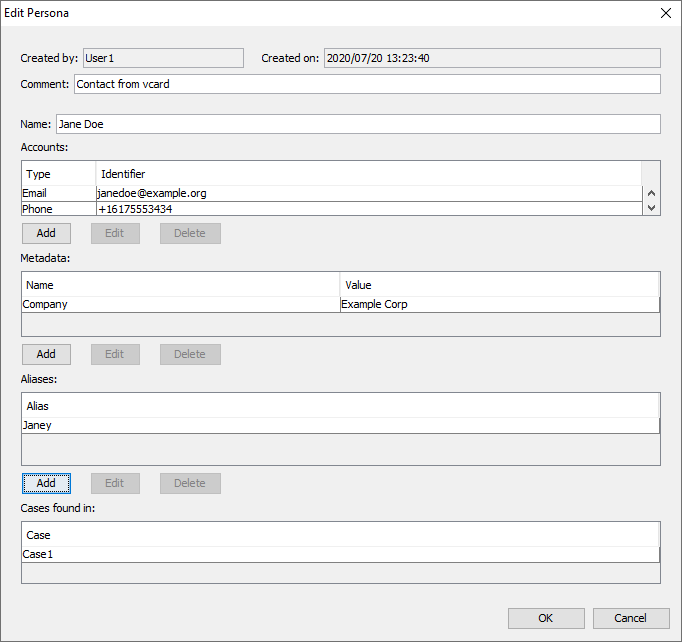
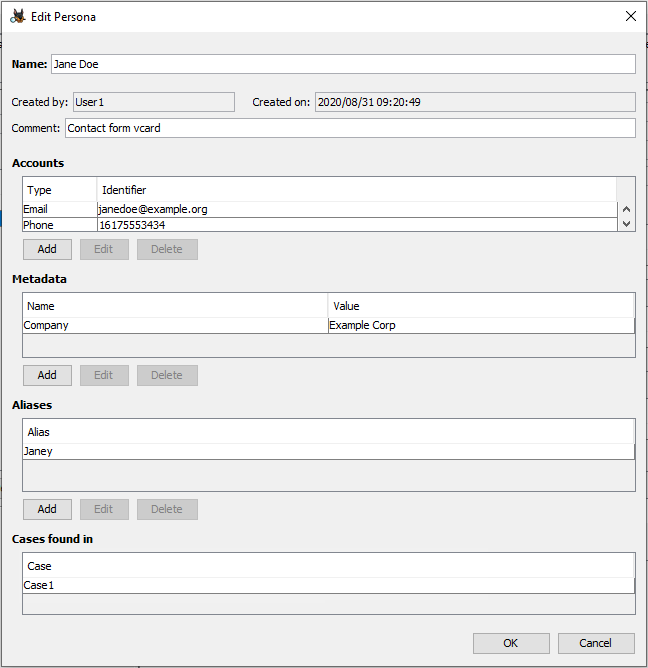
Rearrange fields on Personas panel and make it resizable. Update docs.

Changed region(s): [[0.0, 0.0, 1.0, 1.0], [0.4938, 0.4361, 0.6173, 0.4984]]

diff --git a/Core/src/org/sleuthkit/autopsy/centralrepository/persona/PersonaDetailsDialog.java b/Core/src/org/sleuthkit/autopsy/centralrepository/persona/PersonaDetailsDialog.java
@@ -87,10 +87,10 @@ public class PersonaDetailsDialog extends JDialog {
 
         cancelBtn = new javax.swing.JButton();
         okBtn = new javax.swing.JButton();
+        jScrollPane1 = new javax.swing.JScrollPane();
         pdp = new org.sleuthkit.autopsy.centralrepository.persona.PersonaDetailsPanel();
 
         setDefaultCloseOperation(javax.swing.WindowConstants.DISPOSE_ON_CLOSE);
-        setResizable(false);
 
         org.openide.awt.Mnemonics.setLocalizedText(cancelBtn, org.openide.util.NbBundle.getMessage(PersonaDetailsDialog.class, "PersonaDetailsDialog.cancelBtn.text")); // NOI18N
         cancelBtn.setMaximumSize(new java.awt.Dimension(79, 23));
@@ -109,20 +109,20 @@ public class PersonaDetailsDialog extends JDialog {
             }
         });
 
+        jScrollPane1.setBorder(null);
+        jScrollPane1.setViewportView(pdp);
+
         javax.swing.GroupLayout layout = new javax.swing.GroupLayout(getContentPane());
         getContentPane().setLayout(layout);
         layout.setHorizontalGroup(
             layout.createParallelGroup(javax.swing.GroupLayout.Alignment.LEADING)
-            .addGroup(javax.swing.GroupLayout.Alignment.TRAILING, layout.createSequentialGroup()
-                .addContainerGap()
-                .addGroup(layout.createParallelGroup(javax.swing.GroupLayout.Alignment.TRAILING)
-                    .addComponent(pdp, javax.swing.GroupLayout.Alignment.LEADING, javax.swing.GroupLayout.DEFAULT_SIZE, 660, Short.MAX_VALUE)
-                    .addGroup(javax.swing.GroupLayout.Alignment.LEADING, layout.createSequentialGroup()
-                        .addGap(0, 0, Short.MAX_VALUE)
-                        .addComponent(okBtn)
-                        .addPreferredGap(javax.swing.LayoutStyle.ComponentPlacement.RELATED)
-                        .addComponent(cancelBtn, javax.swing.GroupLayout.PREFERRED_SIZE, javax.swing.GroupLayout.DEFAULT_SIZE, javax.swing.GroupLayout.PREFERRED_SIZE)))
+            .addGroup(layout.createSequentialGroup()
+                .addContainerGap(470, Short.MAX_VALUE)
+                .addComponent(okBtn)
+                .addPreferredGap(javax.swing.LayoutStyle.ComponentPlacement.RELATED)
+                .addComponent(cancelBtn, javax.swing.GroupLayout.PREFERRED_SIZE, javax.swing.GroupLayout.DEFAULT_SIZE, javax.swing.GroupLayout.PREFERRED_SIZE)
                 .addContainerGap())
+            .addComponent(jScrollPane1)
         );
 
         layout.linkSize(javax.swing.SwingConstants.HORIZONTAL, new java.awt.Component[] {cancelBtn, okBtn});
@@ -130,8 +130,8 @@ public class PersonaDetailsDialog extends JDialog {
         layout.setVerticalGroup(
             layout.createParallelGroup(javax.swing.GroupLayout.Alignment.LEADING)
             .addGroup(layout.createSequentialGroup()
-                .addContainerGap(javax.swing.GroupLayout.DEFAULT_SIZE, Short.MAX_VALUE)
-                .addComponent(pdp, javax.swing.GroupLayout.PREFERRED_SIZE, 564, javax.swing.GroupLayout.PREFERRED_SIZE)
+                .addContainerGap()
+                .addComponent(jScrollPane1)
                 .addPreferredGap(javax.swing.LayoutStyle.ComponentPlacement.RELATED)
                 .addGroup(layout.createParallelGroup(javax.swing.GroupLayout.Alignment.BASELINE)
                     .addComponent(okBtn)
@@ -165,6 +165,7 @@ public class PersonaDetailsDialog extends JDialog {
     
     // Variables declaration - do not modify//GEN-BEGIN:variables
     private javax.swing.JButton cancelBtn;
+    private javax.swing.JScrollPane jScrollPane1;
     private javax.swing.JButton okBtn;
     private org.sleuthkit.autopsy.centralrepository.persona.PersonaDetailsPanel pdp;
     // End of variables declaration//GEN-END:variables
